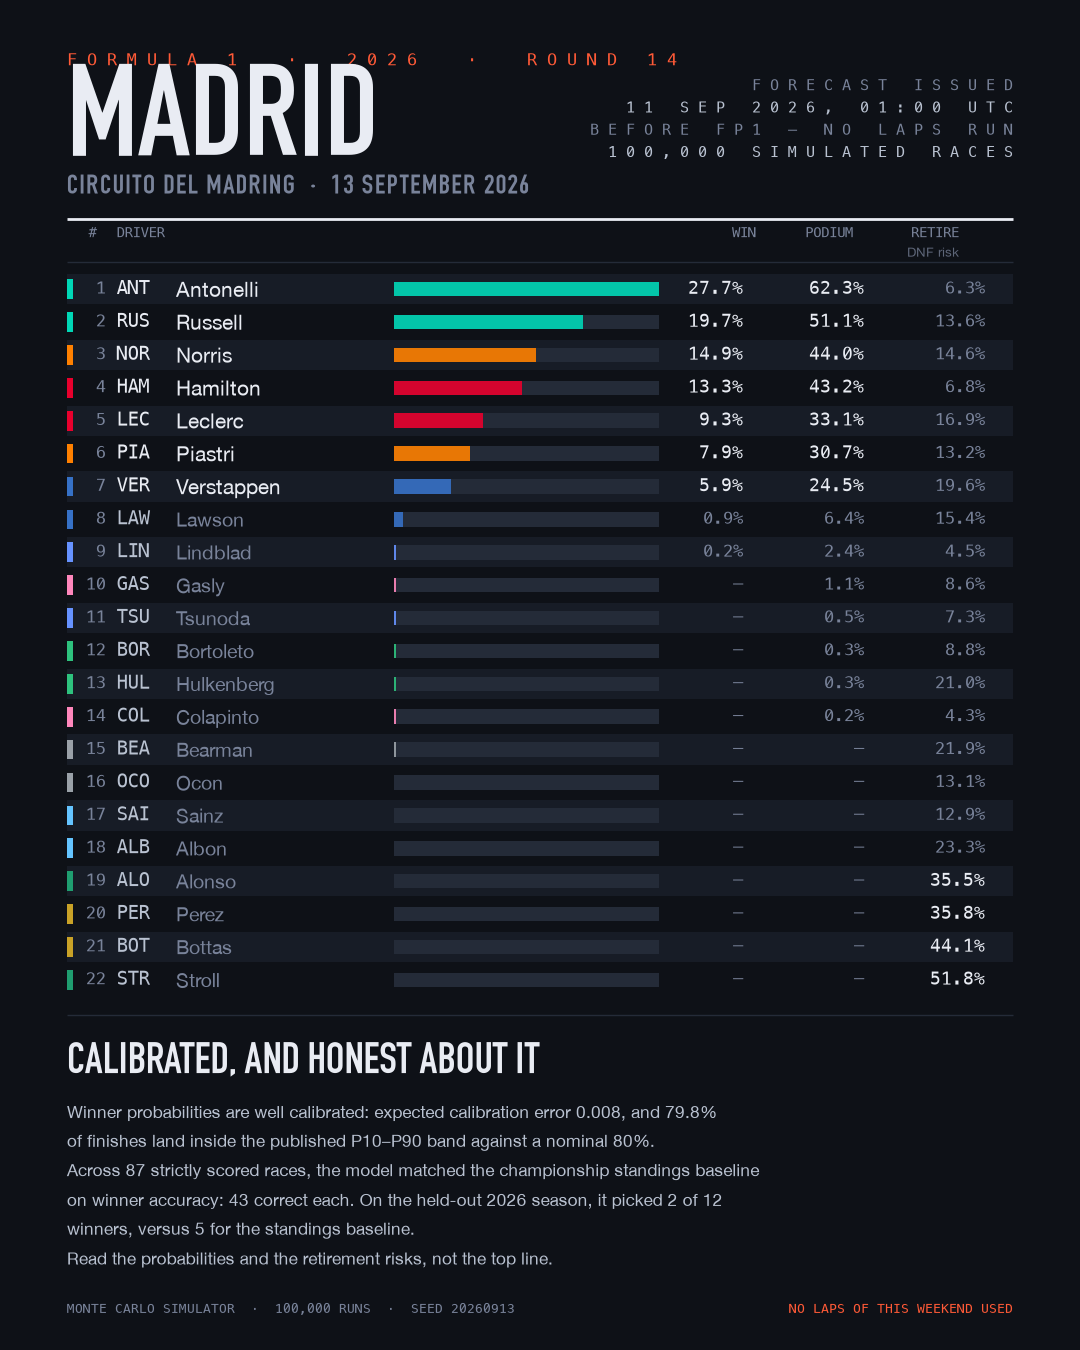
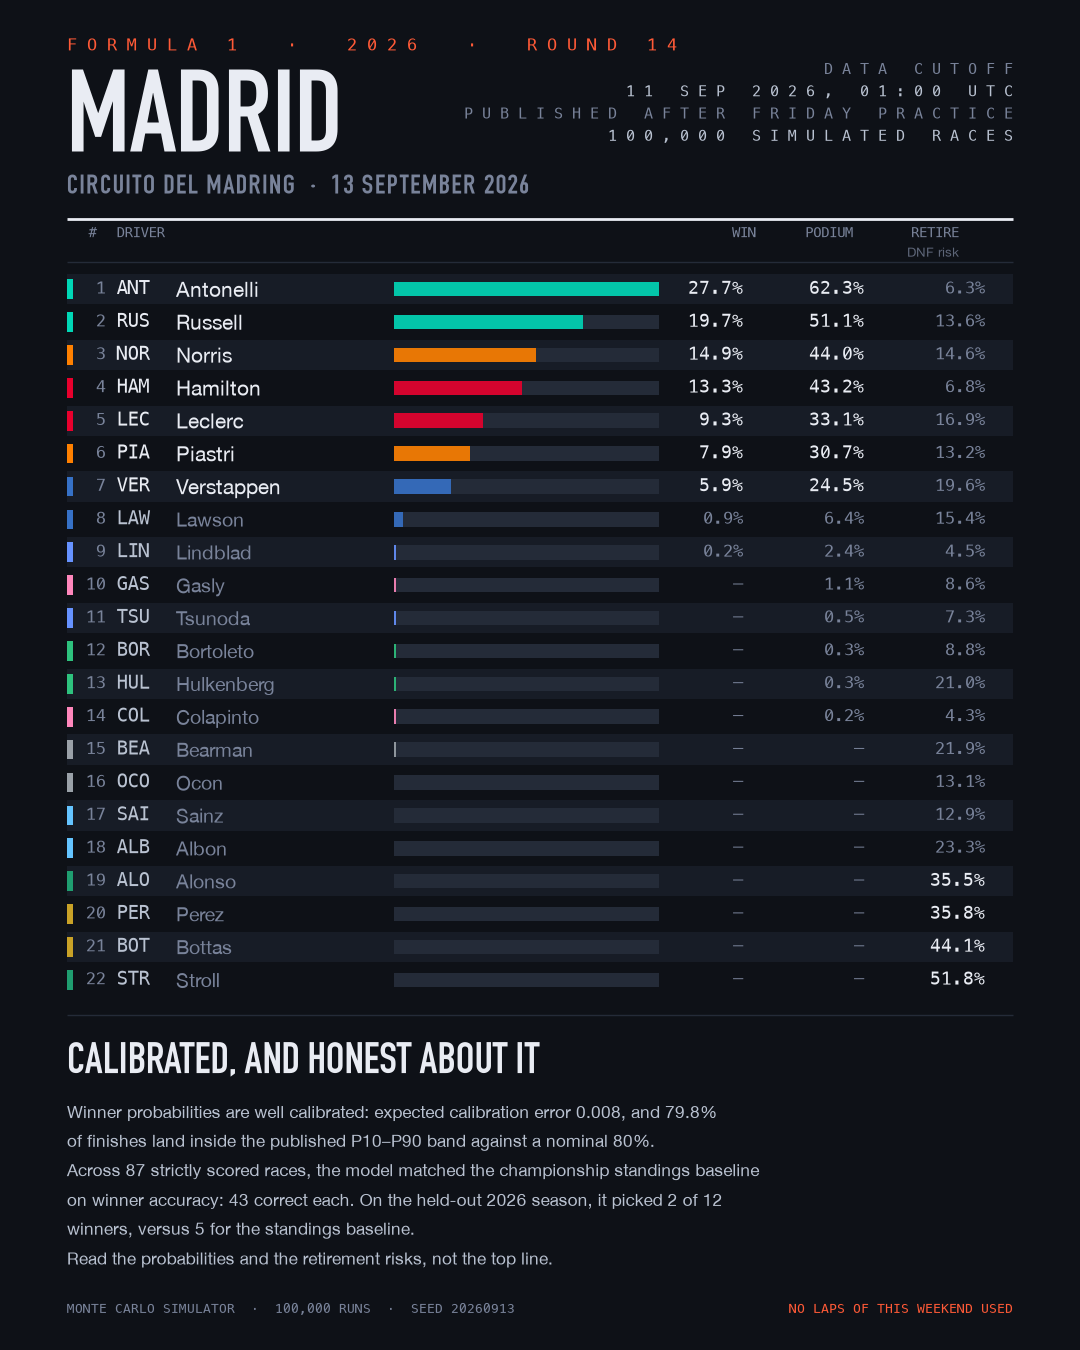
Document the Madrid forecast and correct the publication-time claim

diff --git a/scripts/make_share_card.py b/scripts/make_share_card.py
@@ -90,6 +90,11 @@ def main() -> None:
     parser = argparse.ArgumentParser(description=__doc__)
     parser.add_argument("--run", default="forecast_2026_14_pre_weekend")
     parser.add_argument("--out", default="madrid_2026_card.png")
+    parser.add_argument(
+        "--minimal",
+        action="store_true",
+        help="board only: drop the closing paragraph and let the table fill the frame",
+    )
     args = parser.parse_args()
     ensure_dirs()
 
@@ -113,7 +118,7 @@ def main() -> None:
     # ---- masthead -------------------------------------------------------
     ax.text(
         L,
-        0.955,
+        0.966,
         _track("FORMULA 1  ·  2026  ·  ROUND 14"),
         color=ACCENT,
         fontname=mono,
@@ -122,11 +127,11 @@ def main() -> None:
     )
     ax.text(
         L,
-        0.905,
+        0.906,
         "MADRID",
         color=INK,
         fontname=display,
-        fontsize=92,
+        fontsize=82,
         va="center",
         ha="left",
     )
@@ -140,15 +145,15 @@ def main() -> None:
         va="center",
     )
     stamp = [
-        "FORECAST ISSUED",
+        "DATA CUTOFF",
         "11 SEP 2026, 01:00 UTC",
-        "BEFORE FP1 — NO LAPS RUN",
+        "PUBLISHED AFTER FRIDAY PRACTICE",
         "100,000 SIMULATED RACES",
     ]
     for i, row in enumerate(stamp):
         ax.text(
             R,
-            0.936 - i * 0.0165,
+            0.948 - i * 0.0165,
             _track(row),
             color=INK2 if i % 2 else MUTED,
             fontname=mono,
@@ -193,7 +198,7 @@ def main() -> None:
     line(0.806)
 
     # ---- board ----------------------------------------------------------
-    top, bottom = 0.798, 0.262
+    top, bottom = (0.798, 0.115) if args.minimal else (0.798, 0.262)
     n = len(df)
     step = (top - bottom) / n
     bar_x0, bar_w = 0.365, 0.245
@@ -298,40 +303,41 @@ def main() -> None:
                 zorder=2,
             )
 
-    line(0.248)
+    line(0.101 if args.minimal else 0.248)
 
     # ---- footer ---------------------------------------------------------
+    if not args.minimal:
+        ax.text(
+            L,
+            0.212,
+            "CALIBRATED, AND HONEST ABOUT IT",
+            color=INK,
+            fontname=display,
+            fontsize=31,
+            va="center",
+        )
+        # Written for a reader, not a reviewer: the same facts, said plainly.
+        caveat = (
+            "Winner probabilities are well calibrated: expected calibration error 0.008, and 79.8%\n"
+            "of finishes land inside the published P10\u2013P90 band against a nominal 80%.\n"
+            "Across 87 strictly scored races, the model matched the championship standings baseline\n"
+            "on winner accuracy: 43 correct each. On the held-out 2026 season, it picked 2 of 12\n"
+            "winners, versus 5 for the standings baseline.\n"
+            "Read the probabilities and the retirement risks, not the top line."
+        )
+        ax.text(
+            L,
+            0.186,
+            caveat,
+            color=INK2,
+            fontname=body,
+            fontsize=12.4,
+            va="top",
+            linespacing=1.46,
+        )
     ax.text(
         L,
-        0.212,
-        "CALIBRATED, AND HONEST ABOUT IT",
-        color=INK,
-        fontname=display,
-        fontsize=31,
-        va="center",
-    )
-    # Written for a reader, not a reviewer: the same facts, said plainly.
-    caveat = (
-        "Winner probabilities are well calibrated: expected calibration error 0.008, and 79.8%\n"
-        "of finishes land inside the published P10\u2013P90 band against a nominal 80%.\n"
-        "Across 87 strictly scored races, the model matched the championship standings baseline\n"
-        "on winner accuracy: 43 correct each. On the held-out 2026 season, it picked 2 of 12\n"
-        "winners, versus 5 for the standings baseline.\n"
-        "Read the probabilities and the retirement risks, not the top line."
-    )
-    ax.text(
-        L,
-        0.186,
-        caveat,
-        color=INK2,
-        fontname=body,
-        fontsize=12.4,
-        va="top",
-        linespacing=1.46,
-    )
-    ax.text(
-        L,
-        0.030,
+        0.062 if args.minimal else 0.030,
         "MONTE CARLO SIMULATOR  \u00b7  100,000 RUNS  \u00b7  SEED 20260913",
         color=MUTED,
         fontname=mono,
@@ -340,7 +346,7 @@ def main() -> None:
     )
     ax.text(
         R,
-        0.030,
+        0.062 if args.minimal else 0.030,
         "NO LAPS OF THIS WEEKEND USED",
         color=ACCENT,
         fontname=mono,

diff --git a/README.md b/README.md
@@ -7,9 +7,6 @@ advantage over the championship table.
 
 ![How the forecast is built: sources, one chronological panel, leakage gates, three fitted models, the Monte Carlo simulator, and the published probabilities](images/architecture.svg)
 
-Regenerate the diagram with `python -m scripts.make_architecture` — its counts are
-read from the panel, so it cannot describe a system that no longer exists.
-
 ## Run locally
 
 Python 3.12 is used for the checked-in environment. The historical panel is
@@ -66,10 +63,12 @@ The derivation, assumptions, tests and remaining limitations are in
 clean-air pace, informative censoring and race-wide incident dynamics remain
 open. The available sample does not prove an absolute ceiling on prediction.
 
-## Madrid 2026 — issued before FP1
+## Madrid 2026 — forecast to a pre-FP1 data cutoff
 
-Round 14, forecast from an entry list dated 2026-09-07 with an information cutoff
-of 2026-09-11T01:00Z, before any car ran. 100,000 simulated races, seed 20260913.
+Round 14, from an entry list dated 2026-09-07 and an information cutoff of
+2026-09-11T01:00Z. The model used nothing after that cutoff, so no lap of this
+weekend informs it; the artefact itself was written later that day, after Friday
+practice had run. 100,000 simulated races, seed 20260913.
 
 | # | Driver | Win | Podium | Top 10 | DNF risk |
 |--:|---|--:|--:|--:|--:|
